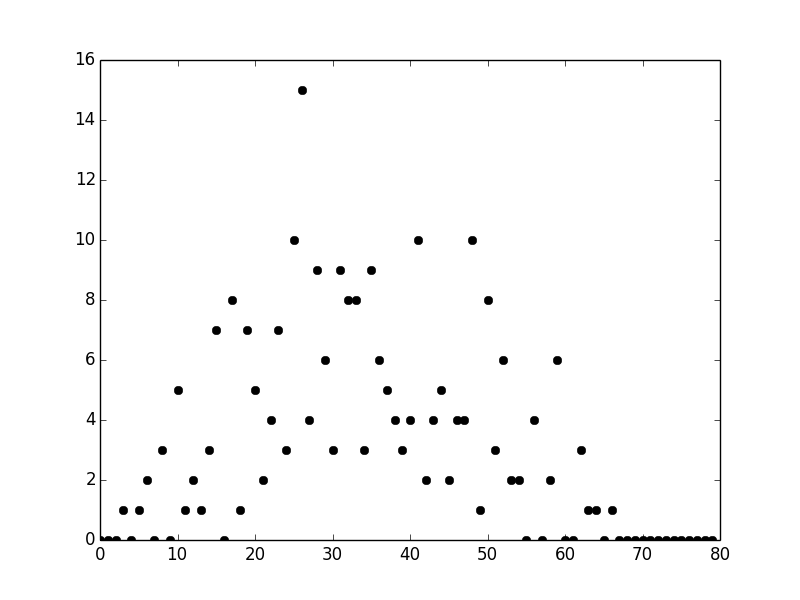
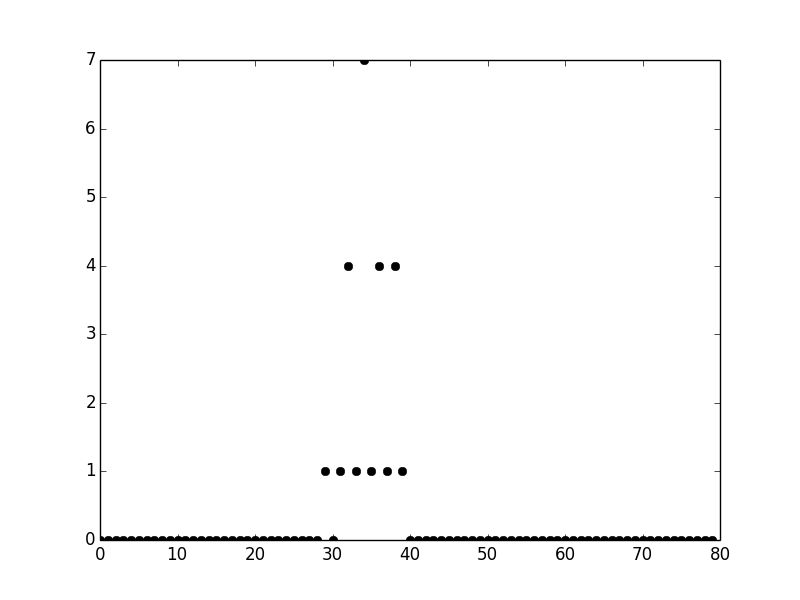
Instant judgement cleanup

diff --git a/potentials.py b/potentials.py
@@ -1,39 +1,44 @@
 import numpy as np
-# For probability
 import random
 import bisect
 import collections
 import scipy.linalg as lg
 
-
 # TODO - circular conditions
 # TODO - move A-creation to separate method
 
-# Probability helpers
 def cdf(weights):
+    """ Cumulative distribution function """
+    # Normalization, container, iterator
     total = sum(weights)
     result = []
-    cumsum = 0
+    cumsum = 0.0
+
+    # Construct
     for w in weights:
         cumsum += w
         result.append(cumsum / total)
+
+    # Give back
     return result
 
-def choice(weights):
-    # Normalize weights to 1! XXX
-    cdf_vals = cdf(weights)
-    x = random.random()
+def choice(normalized_weights):
+    """ Returns id of randomly chosen weight """
+    cdf_vals = cdf(normalized_weights)
+    x = np.random.random()
+    # Seems important
     idx = bisect.bisect(cdf_vals, x)
     return idx
 
 def randomly_draw(values, q):
-    # q is of course a vector with probabilities
+    """ Changes probability into reality """
     idx = choice(q)
     return values[idx]
 
-
 class E_potential(object):
+    """ Some serious class o_O """
     def __init__(self, size):
+        """ """
         self.size = size
         self.prefered = 0
 
@@ -46,33 +51,41 @@ class E_potential(object):
 
     # XXX - set this before self.prefered
     def set_scale_shift(self, shift):
+        """ Set it """
         self.scale = np.roll(self.scale, shift)
 
     def set_prefered(self, prefered):
+        """ You want it """
         self.prefered = prefered
         self.calc_S()
 
     def they_interact(self, i, j):
+        """ This dictates A and S shapes """
+
         n = len(self.scale)
 
         if self.scale[i%n] == self.scale[j%n] == 1: # Nice python!
             return True
-        # Else
-        return False
+        else:
+            return False
 
-    def get_potential(self):
-        # Show potential 
+    def show_potential(self):
+        """ Plot """
         x = range(self.size)
         y = [self.merw_pot(s) for s in x]
         plt.plot(x,y)
         plt.show()
 
     def get_A(self):
+        """ wtf """
         return self.A
+
     def get_S(self):
+        """ Nice """
         return self.S
 
     def simple_A(self):
+        """ Dummy """
         A = np.zeros((self.size, self.size))
         k = 3
         for it in range(self.size):
@@ -82,11 +95,14 @@ class E_potential(object):
                         A[it,jt] = 1
         self.A = A
 
+    # FIXME WTF
     def merw_pot(self, i, prefered = 0):
+        """ wtf """
         ret = 1. - ((i-prefered)/float(self.size))**2
         return ret
 
     def calc_A(self):
+        """ dafuq """
         #A = np.random.random((self.size, self.size))/1e3
         A = np.zeros((self.size, self.size))
         noise = 1e-4
@@ -103,6 +119,7 @@ class E_potential(object):
         self.A = A
 
     def calc_S(self):
+        """ is this """
         self.calc_A()
         S = np.zeros(self.A.shape)
         d, V = lg.eigh(self.A, eigvals = (self.size-1, self.size-1))

diff --git a/merw.py b/merw.py
@@ -1,93 +1,43 @@
-import numpy as np
-import matplotlib.pyplot as plt
 from potentials import *
+import potentials as pt
 from merwmidi import make_midi
 import random
 
 class Merw(object):
+    """ Most generic walker """
     def __init__(self, size):
+        """ quo vadis """
         self.size = size
         self.values = range(self.size)
-        self.pot = E_potential(self.size)
+
+        # FIXME this must have been such a grand idea
+        # now crap
+        self.pot = pt.E_potential(self.size)
         self.S = self.pot.get_S()
         self.A = self.pot.get_A()
+
     def set_scale_shift(self, shift):
+        """ Shifts scale """
         self.pot.set_scale_shift(shift)
+
     def set_prefered(self, prefered):
+        """ Probability bender """
         self.pot.set_prefered(prefered)
+
     def get_S(self):
+        """ Dig deep """
         return self.pot.get_S()
+
     def get_A(self):
+        """ yup """
         return self.pot.get_A()
-    def get_next_value(self, idx, time=0):
+
+    # FIXME this seems crap
+    def get_next_value(self, current_id):
+        """ Takes a next merw step """
         # idx - previous index
-        # time - variable to control potential
         S = self.pot.get_S()
-        return randomly_draw(self.values, S[:,idx])
 
-if __name__ == '__main__':
+        out = pt.randomly_draw(self.values, S[:, current_id])
+        return out
 
-    N_ = 80
-    # Calculate probability matix holding S
-    merw = Merw(N_)
-
-    # Prepare histogram
-    histogram = np.zeros(N_)
-
-    # Prepare list of indexes
-    values = range(N_)
-    # Pitches are what we actually calculate
-    pitches = [x + 30 for x in values]
-
-    # Merw starting position set
-    pos = 33
-    positions = []
-
-    # Walk
-
-    # Prepare meta potential for testing
-    # Number of iterations
-    N_ = 250
-    def meta_pot(it):
-        ret = 70.0 * (0.5 * (1.0 + np.cos(8.*it*np.pi/N_)))
-        #print ret
-        return ret
-
-    for it in range(N_):
-
-
-        # Histogram
-        histogram[pos] += 1
-
-        positions.append(pos)
-        next_pos = merw.get_next_value(pos)
-
-        # Move
-        if (it%20 == 0):
-            shift = random.randint(-5,5)
-            shift = 3
-            merw.set_scale_shift(shift)
-            print it, '/', N_, 'current position: ', pos,\
-                    'changing scale:', shift
-        merw.set_prefered(int(meta_pot(it)))
-
-        # Switcheroo
-        pos = next_pos
-
-    # Create final pitches vector
-    merw_pitches = [pitches[pos] for pos in positions]
-    # Make midi file with calculated pitches
-    make_midi(merw_pitches)
-
-
-    #S = merw.get_S(); plt.imshow(S); plt.show()
-    S = merw.get_S(); plt.imshow(S); plt.savefig('S.png')
-    plt.clf()
-
-    #plt.plot(histogram,'ko'); plt.show()
-    plt.plot(histogram,'ko'); plt.savefig('histogram.png')
-    plt.clf()
-#
-#    plt.plot(positions, 'ko'); plt.show()
-    plt.plot(positions, 'ko'); plt.savefig('walk.png')
-    plt.clf()

diff --git a/main.py b/main.py
@@ -1,0 +1,71 @@
+import numpy as np
+import matplotlib.pyplot as plt
+import merw as mw
+
+if __name__ == '__main__':
+
+    # How many positions can walker occupy
+    nof_spots = 80
+
+    # Calculate probability matix holding S
+    walker = mw.Merw(nof_spots)
+
+    # Do research
+    histogram = np.zeros(nof_spots)
+
+    # Prepare list of indexes
+    values = range(nof_spots)
+
+    # Pitches are what we actually calculate
+    # and they start from 30 and iterate like indexes
+    pitches = [x + 30 for x in values]
+
+    # Merw starting position set
+    pos = 33
+    positions = []
+
+    # Walk
+
+    # Prepare meta potential for testing
+    # Number of iterations
+    def meta_pot(it):
+        ret = 70.0 * (0.5 * (1.0 + np.cos(8.*it*np.pi/N_)))
+        #print ret
+        return ret
+
+    for it in range(N_):
+        # Histogram
+        histogram[pos] += 1
+
+        positions.append(pos)
+        next_pos = merw.get_next_value(pos)
+
+        # Move
+        if (it%20 == 0):
+            shift = random.randint(-5,5)
+            shift = 3
+            merw.set_scale_shift(shift)
+            print it, '/', N_, 'current position: ', pos,\
+                    'changing scale:', shift
+        merw.set_prefered(int(meta_pot(it)))
+
+        # Switcheroo
+        pos = next_pos
+
+    # Create final pitches vector
+    merw_pitches = [pitches[pos] for pos in positions]
+    # Make midi file with calculated pitches
+    make_midi(merw_pitches)
+
+
+    #S = merw.get_S(); plt.imshow(S); plt.show()
+    S = merw.get_S(); plt.imshow(S); plt.savefig('S.png')
+    plt.clf()
+
+    #plt.plot(histogram,'ko'); plt.show()
+    plt.plot(histogram,'ko'); plt.savefig('histogram.png')
+    plt.clf()
+#
+#    plt.plot(positions, 'ko'); plt.show()
+    plt.plot(positions, 'ko'); plt.savefig('walk.png')
+    plt.clf()
